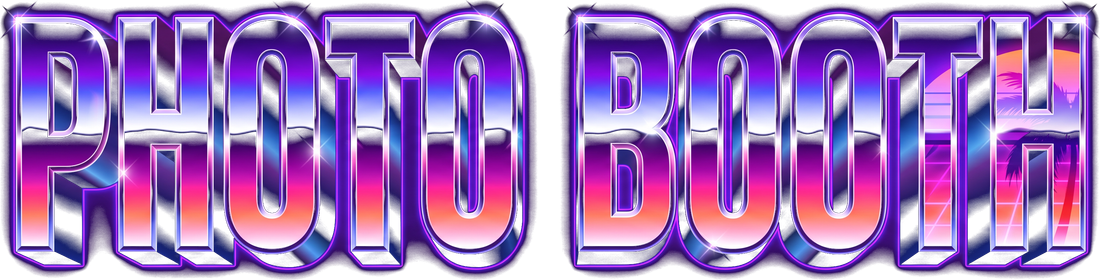
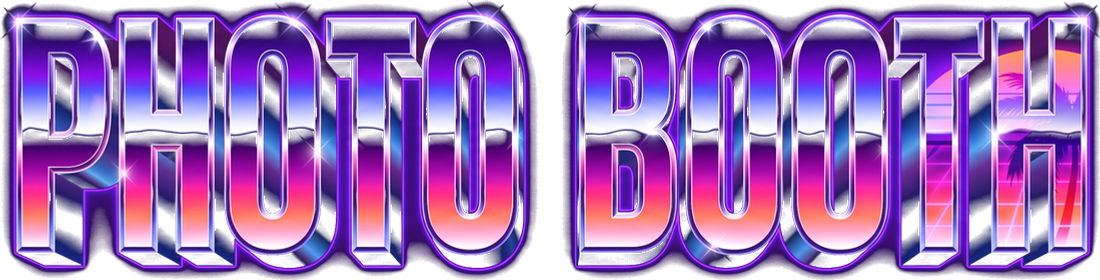
Polish Photo Booth chrome title and booth_step screenshot helper.
Keep the OpenArt environment plate + Polaroid-camera before/after first
shot; tighten title stacking and allow __boothGoto for proof captures.

Changed region(s): [[0.0, 0.0, 1.0, 1.0]]

diff --git a/src/components/PhotoBooth.tsx b/src/components/PhotoBooth.tsx
@@ -331,6 +331,43 @@ export function PhotoBooth() {
 
   const welcomeName = firstNameOf(guest);
 
+  // Dev/screenshot helper: ?booth_step= or window.__boothGoto(step)
+  useEffect(() => {
+    const apply = (s: string) => {
+      if (
+        !["entry", "auth", "upload", "confirm", "generate", "ready", "submitted", "myphotos"].includes(
+          s
+        )
+      ) {
+        return;
+      }
+      setLoading(false);
+      setStep(s as Step);
+      if (s === "confirm" || s === "generate" || s === "ready" || s === "submitted") {
+        setPreviewUrl((u) => u || "/images/booth/sample-before.jpg");
+        setResultUrl((u) => u || "/images/booth/sample-after-face.jpg");
+        setUploadId((id) => id || "demo");
+        setResultId((id) => id || "demo");
+        setConsent(true);
+        if (s === "generate") {
+          setPolaroidPhase("eject");
+          setProgress(72);
+          setFlash(true);
+        }
+        if (s === "ready" || s === "submitted") setPolaroidPhase("ready");
+      }
+    };
+    const params = new URLSearchParams(
+      location.hash.includes("?") ? location.hash.split("?")[1] : location.search
+    );
+    const fromUrl = params.get("booth_step");
+    if (fromUrl) apply(fromUrl);
+    (window as unknown as { __boothGoto?: (s: string) => void }).__boothGoto = apply;
+    return () => {
+      delete (window as unknown as { __boothGoto?: (s: string) => void }).__boothGoto;
+    };
+  }, []);
+
   return (
     <section id="photobooth" className="scene-section" aria-label="80s Photo Booth">
       {/* ONE fixed OpenArt environment plate for every step */}
@@ -349,6 +386,7 @@ export function PhotoBooth() {
             src="/images/booth/title-photo-booth-sm.png"
             alt="PHOTO BOOTH"
           />
+          <h2 className="booth-chrome-fallback" aria-hidden="true">PHOTO BOOTH</h2>
         </header>
 
         <div className="booth-panel">

diff --git a/src/app/photo-booth.css b/src/app/photo-booth.css
@@ -69,9 +69,26 @@
   display: block;
   width: min(720px, 92%);
   height: auto;
-  margin: -0.15rem auto 0;
-  mix-blend-mode: screen;
-  filter: drop-shadow(0 0 18px rgba(255, 79, 216, 0.35));
+  margin: -0.35rem auto 0.15rem;
+  filter: drop-shadow(0 0 18px rgba(255, 79, 216, 0.45));
+}
+.booth-chrome-fallback {
+  font-family: var(--font-chrome), Impact, sans-serif;
+  font-size: clamp(1.8rem, 5.5vw, 3.6rem);
+  letter-spacing: 0.06em;
+  line-height: 0.92;
+  margin: -0.85rem 0 0.35rem;
+  background: linear-gradient(180deg, #fff 0%, #c5d0e8 35%, #7a8bb0 55%, #eef3ff 70%, #9aa8c4 100%);
+  -webkit-background-clip: text;
+  background-clip: text;
+  color: transparent;
+  filter: drop-shadow(0 2px 0 #2a1040) drop-shadow(0 0 18px rgba(255, 79, 216, 0.4));
+  text-transform: uppercase;
+}
+.booth-title-chrome {
+  margin-bottom: -2.2rem;
+  position: relative;
+  z-index: 2;
 }
 .booth-neon-script {
   font-family: var(--font-hastron), var(--font-script-fallback), cursive;
